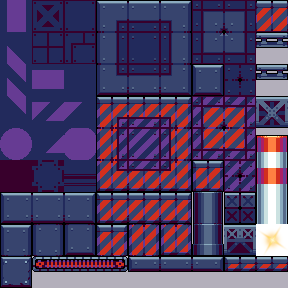
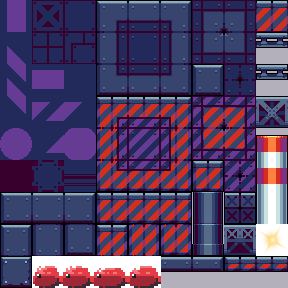
[SAVE] Starting to implement slime. Saving process just before

Changed region(s): [[0.0938, 0.875, 0.5625, 1.0]]

diff --git a/src/anims_displays.c b/src/anims_displays.c
@@ -29,11 +29,34 @@ map_col *next_col(map_info *map, map_col *last, map_col *actual, \
     return temp;
 }
 
+void move_one_block(map_col *actual, int speed, int direction, map_info *map)
+{
+    sfVector2f offset;
+    sfIntRect rect;
+    sfTime time = sfClock_getElapsedTime(clock);
+    float seconds = time.microseconds / 1000000.0;
+
+    for (int i = 0; i < MAP_HEIGHT; i++) {
+        offset = sfSprite_getPosition(actual->col[i].sprite);
+        if (actual->col[i].type == 8)
+            offset.x = offset.x - speed * direction * 1.5;
+        else
+            offset.x = offset.x - speed * direction;
+        sfSprite_setPosition(actual->col[i].sprite, offset);
+
+        if (actual->col[i].type == 8 && seconds >= 0.08) {
+            printf("animation %f\n", seconds);
+            rect = sfSprite_getTextureRect(actual->col[i].sprite);
+            rect.left = ((rect.left + 32) % 32) + BLOCK_SIZE;
+            sfSprite_setTextureRect(actual->col[i].sprite, rect);
+        }
+    }
+}
+
 int move_blocks(int direction, int speed, map_info *map)
 {
     map_col *last = map->data;
     map_col *actual = map->data;
-    sfVector2f offset;
     sfVector2f first_pos;
 
     while (actual != NULL) {
@@ -42,11 +65,7 @@ int move_blocks(int direction, int speed, map_info *map)
             actual = next_col(map, last, actual, first_pos);
         if (actual == NULL)
             return 1;
-        for (int i = 0; i < MAP_HEIGHT; i++) {
-            offset = sfSprite_getPosition(actual->col[i].sprite);
-            offset.x = offset.x - speed * direction;
-            sfSprite_setPosition(actual->col[i].sprite, offset);
-        }
+        move_one_block(actual, speed, direction, map);
         last = actual;
         actual = actual->next;
     }

diff --git a/src/center.c b/src/center.c
@@ -38,6 +38,13 @@ int main_disp(sfRenderWindow *wind, map_info *map, gameobj *obj, parallax *bg)
     return 0;
 }
 
+void slime_gestion(gameobj *slime, map_info *map) {
+    sfVector2f pos = sfSprite_getPosition(slime->sprite);
+
+    pos.x += 6;
+    sfSprite_setPosition(slime->sprite, pos);
+}
+
 int main_process(map_info *map, gameobj *rabbit, sfRenderWindow *window)
 {
     sfEvent event;
@@ -68,6 +75,8 @@ int main(void)
     map_info *map = map_creator(malloc(sizeof(map_info)));
     sfRenderWindow *window = create_window();
 
+    testpos.x = WIDTH + 1;
+    rabbit->next = new_entity("assets/slime.png", testpos, 1);
     if (main_menu(window, rabbit, map) == -1)
         return 0;
     main_process(map, rabbit, window);

diff --git a/src/utils.c b/src/utils.c
@@ -38,10 +38,8 @@ void set_tile_rectangle(sfSprite *sprite, int top, int left)
 
 sfSprite *others_blocks(int type, sfSprite *sprite)
 {
-    if (type == 7) {
+    if (type == 7)
         set_tile_rectangle(sprite, BLOCK_SIZE * 8, BLOCK_SIZE * 7);
-        printf("star_created\n");
-    }
     return sprite;
 }
 

diff --git a/src/loaders.c b/src/loaders.c
@@ -27,7 +27,7 @@ char *read_map_file(char *map_file)
 }
 
 map_col *map_col_reader(char *buffer, int x, int map_len, sfTexture *texture, \
-                        float last_pos)
+    float last_pos)
 {
     map_col *actual = malloc(sizeof(map_col));
 
